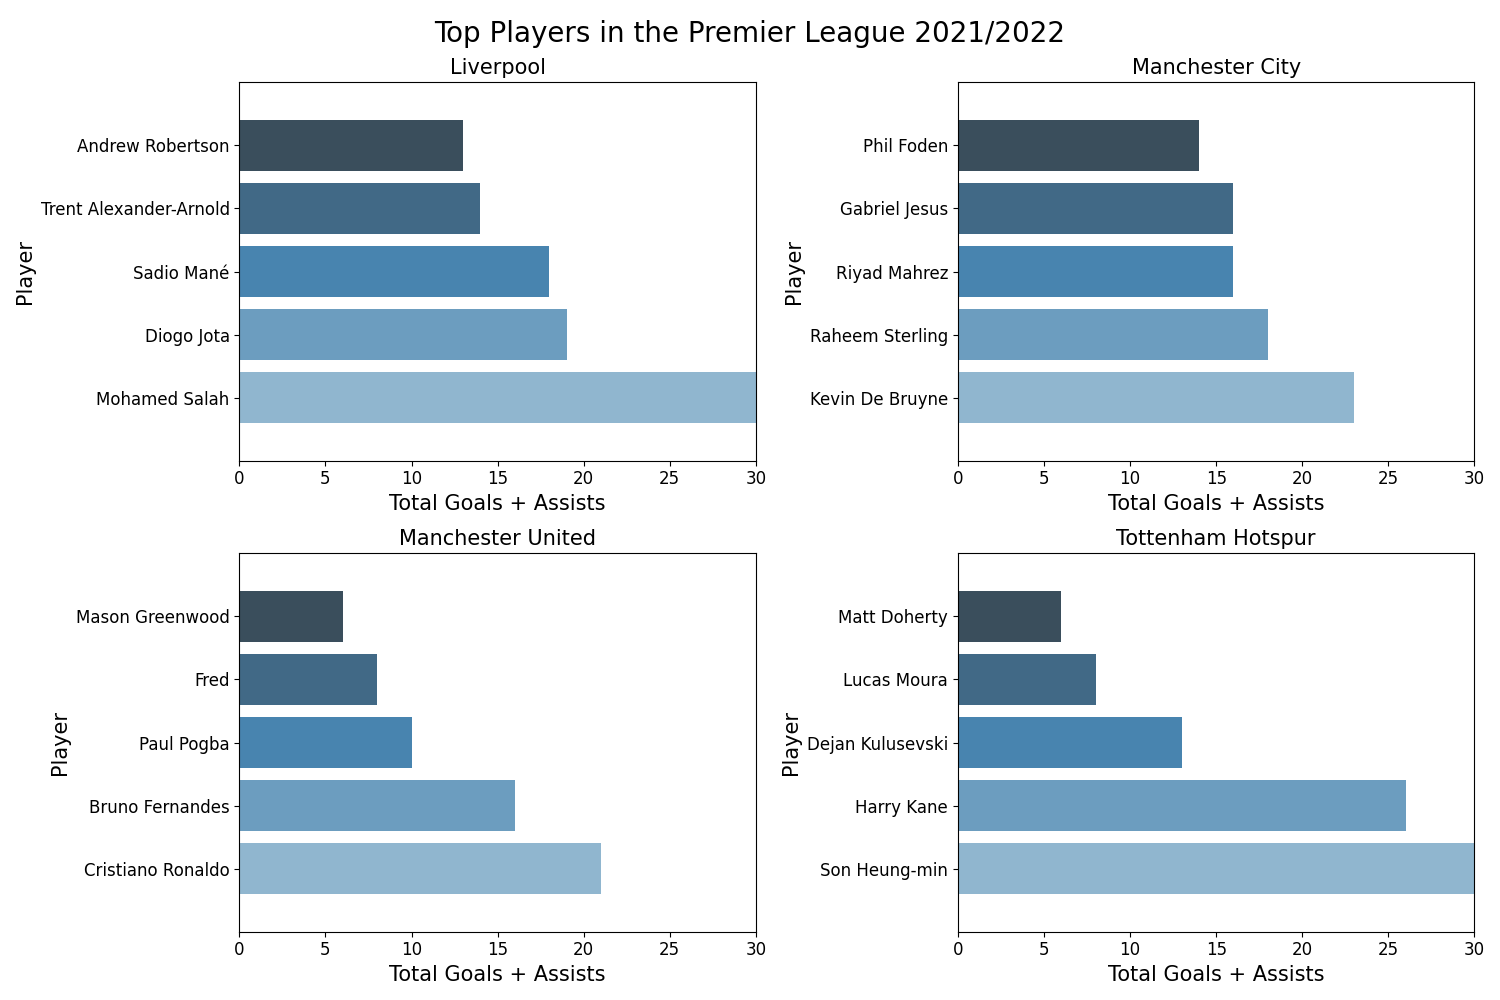
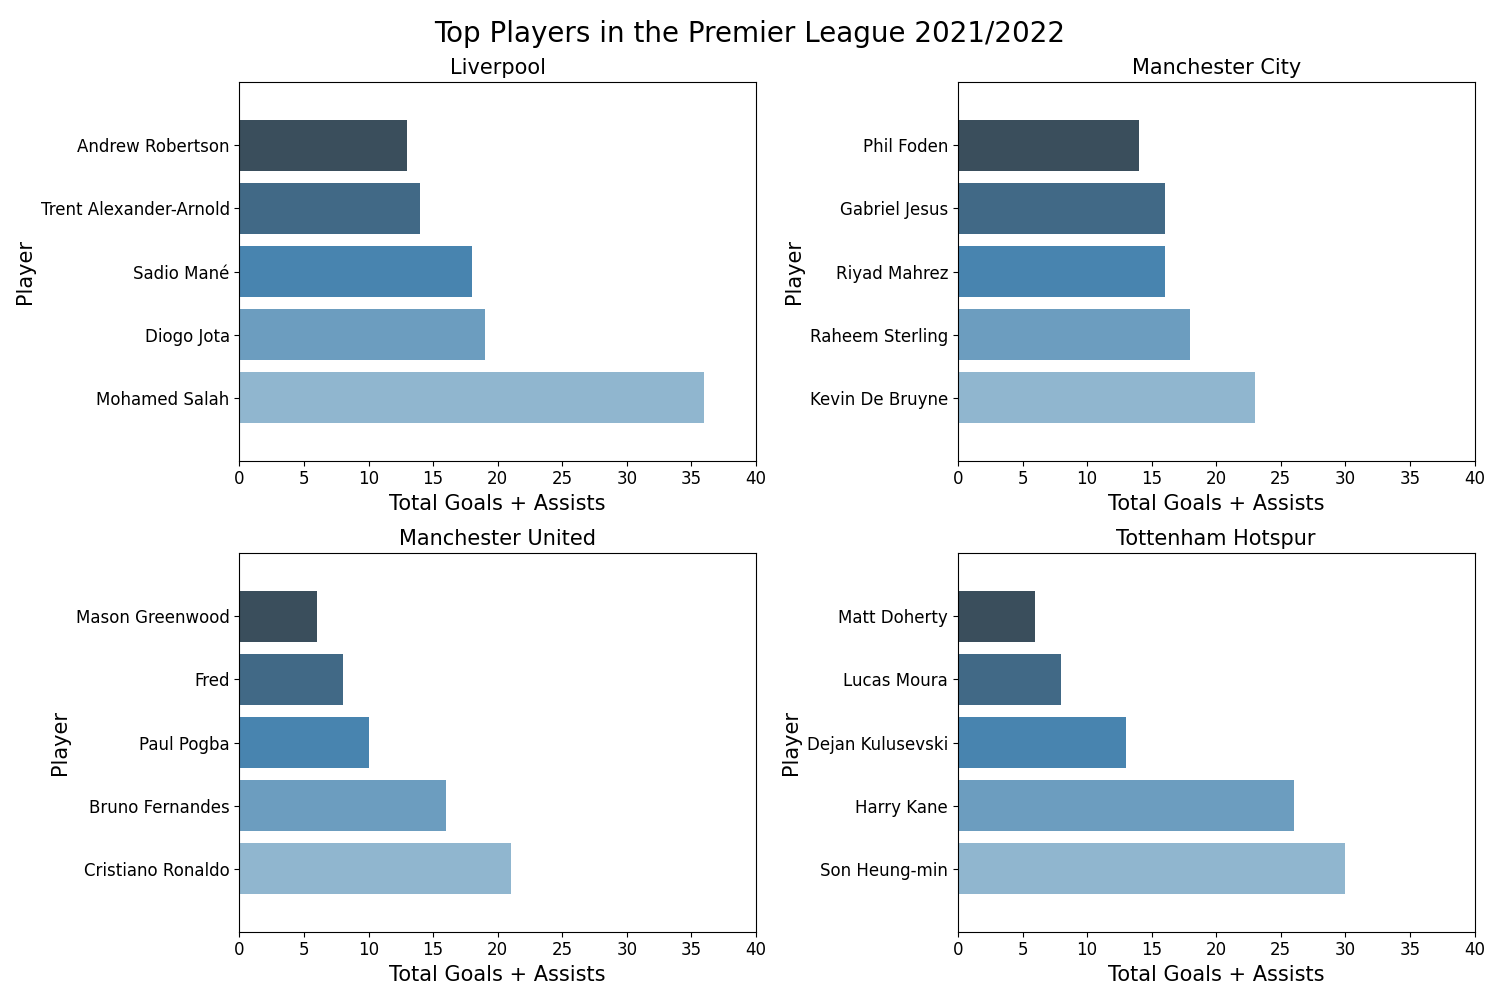
fix bugs

diff --git a/Hafez_questions/explaratory Q2/visulization.py b/Hafez_questions/explaratory Q2/visulization.py
@@ -39,10 +39,10 @@ def plot_top_players_Total_goals_assists():
     axes[1, 0].set_ylabel('Player', fontsize=15)
     axes[1, 1].set_ylabel('Player', fontsize=15)
     # set the limit of x-axis
-    axes[0, 0].set_xlim(0, 30)
-    axes[0, 1].set_xlim(0, 30)
-    axes[1, 0].set_xlim(0, 30)
-    axes[1, 1].set_xlim(0, 30)
+    axes[0, 0].set_xlim(0, 40)
+    axes[0, 1].set_xlim(0, 40)
+    axes[1, 0].set_xlim(0, 40)
+    axes[1, 1].set_xlim(0, 40)
     # set the limit of y-axis
     axes[0, 0].set_ylim(-1, 5)
     axes[0, 1].set_ylim(-1, 5)
